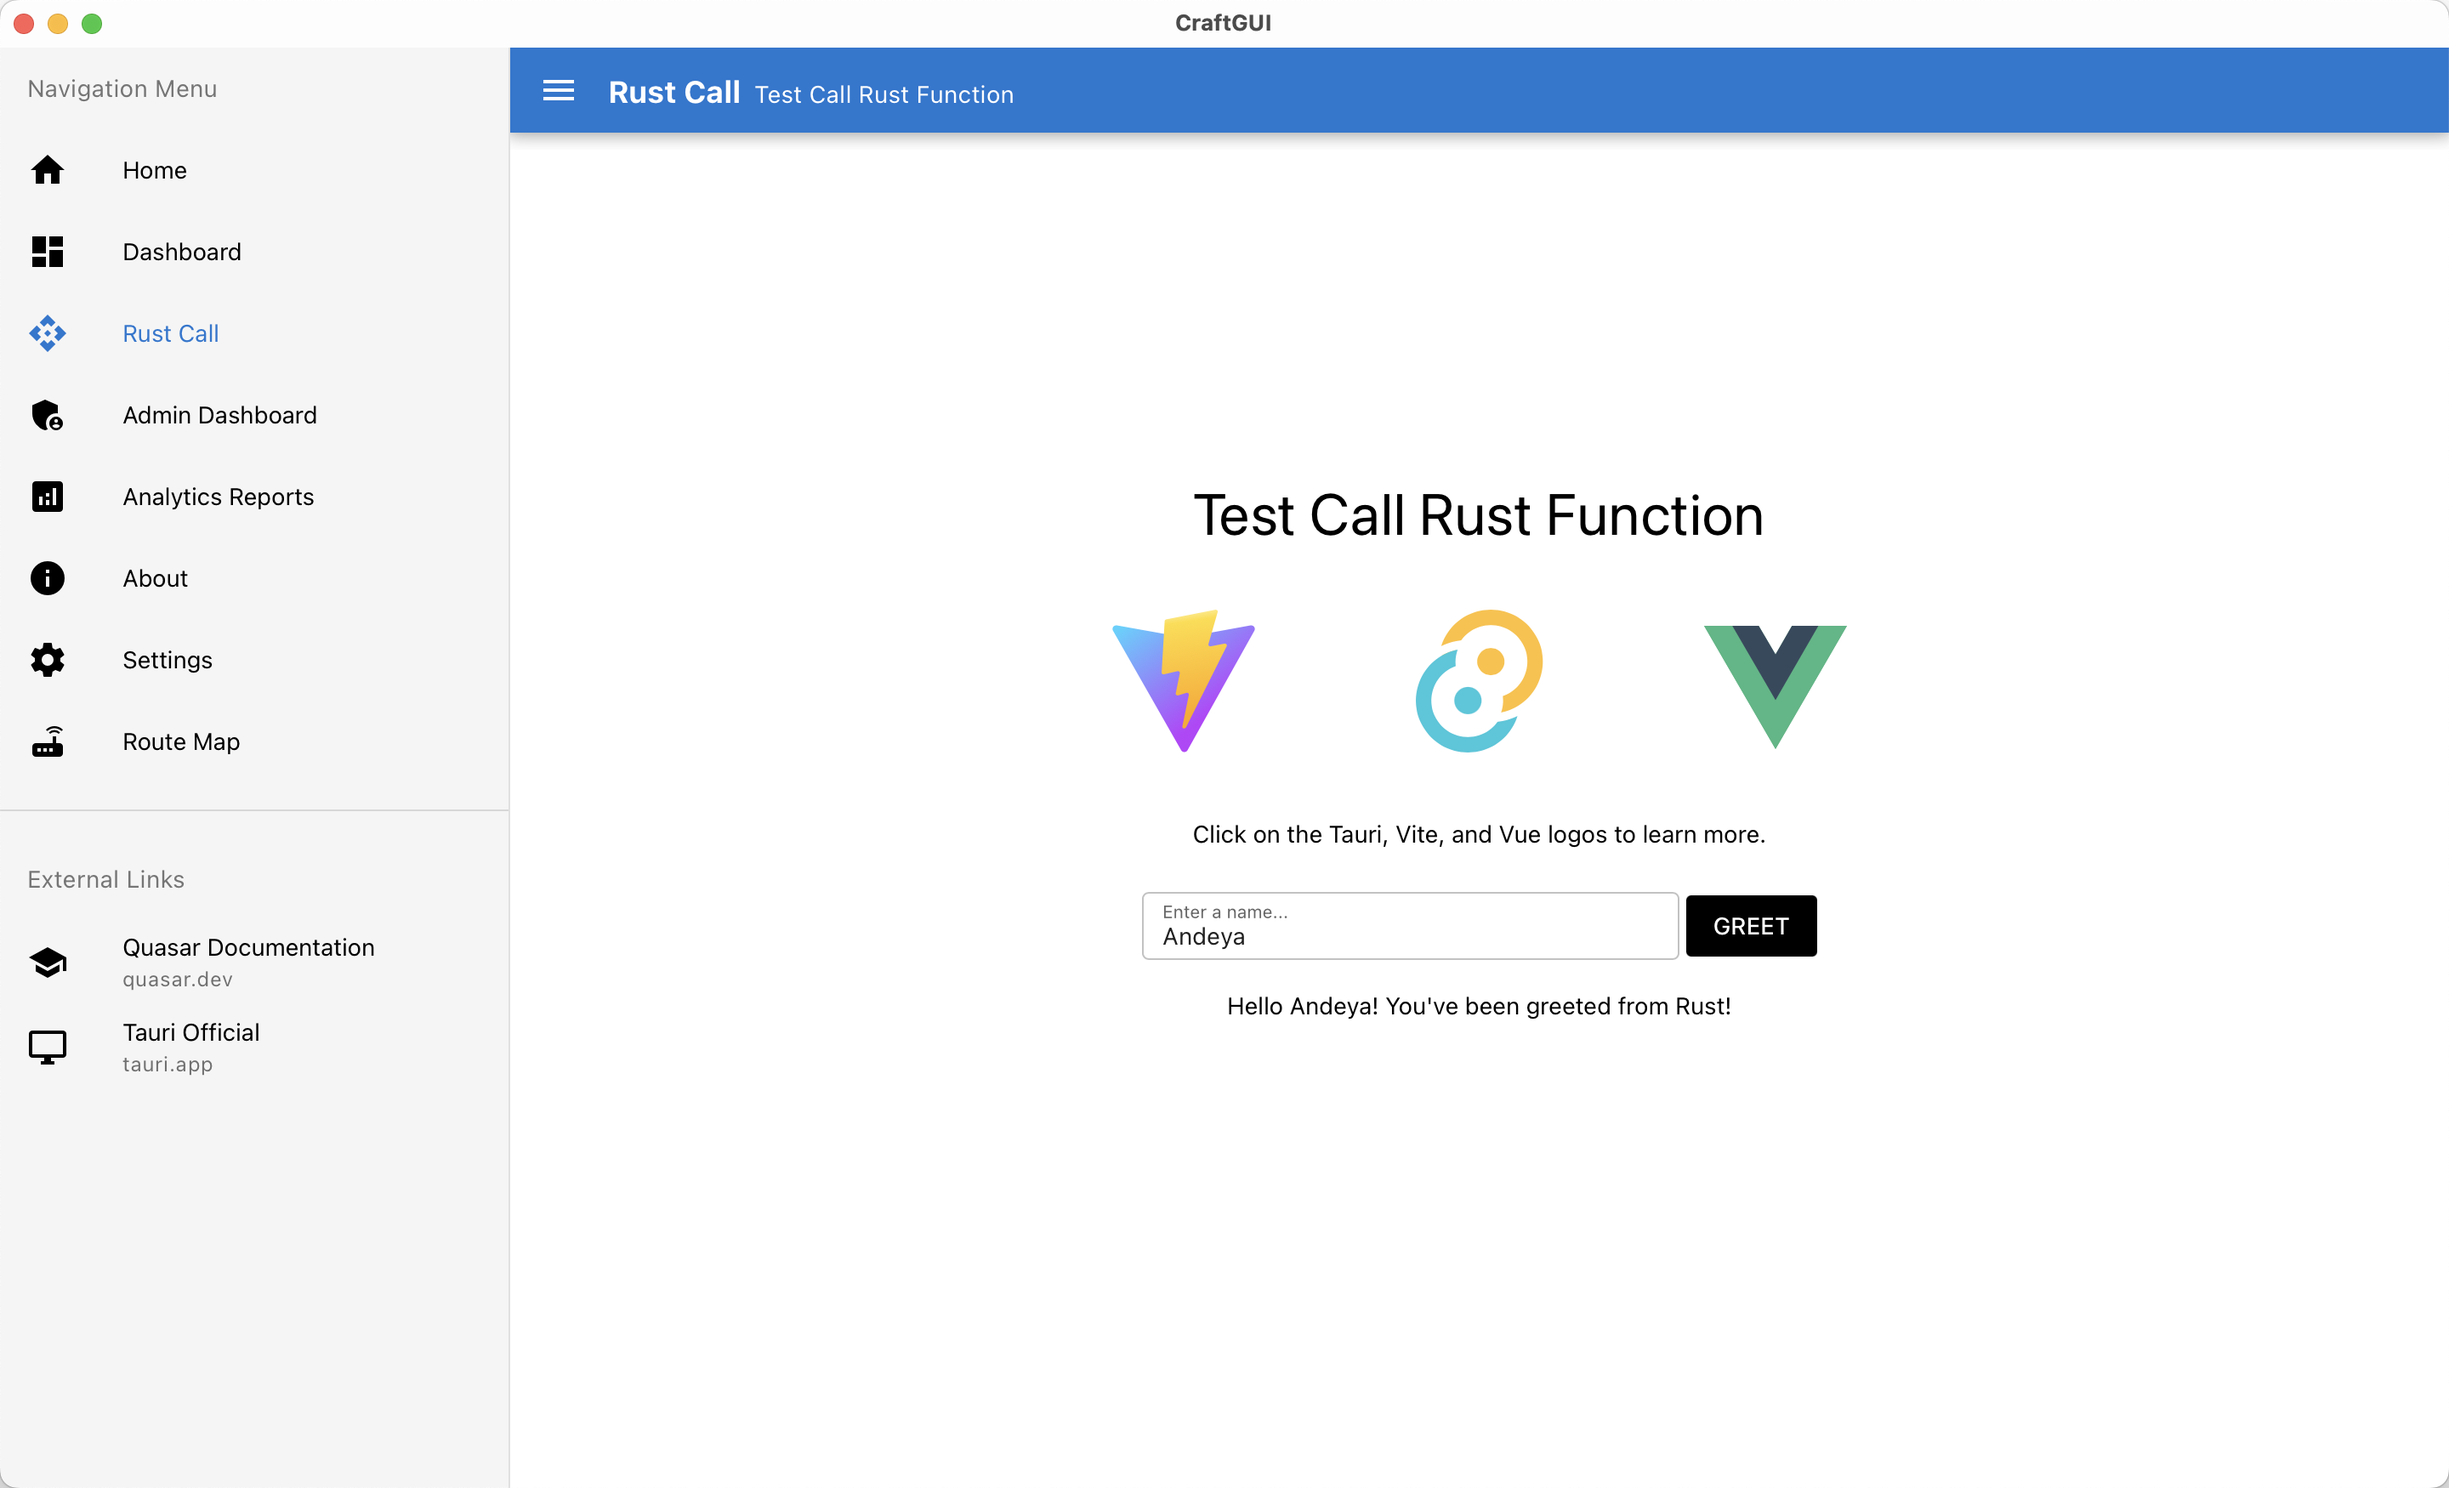
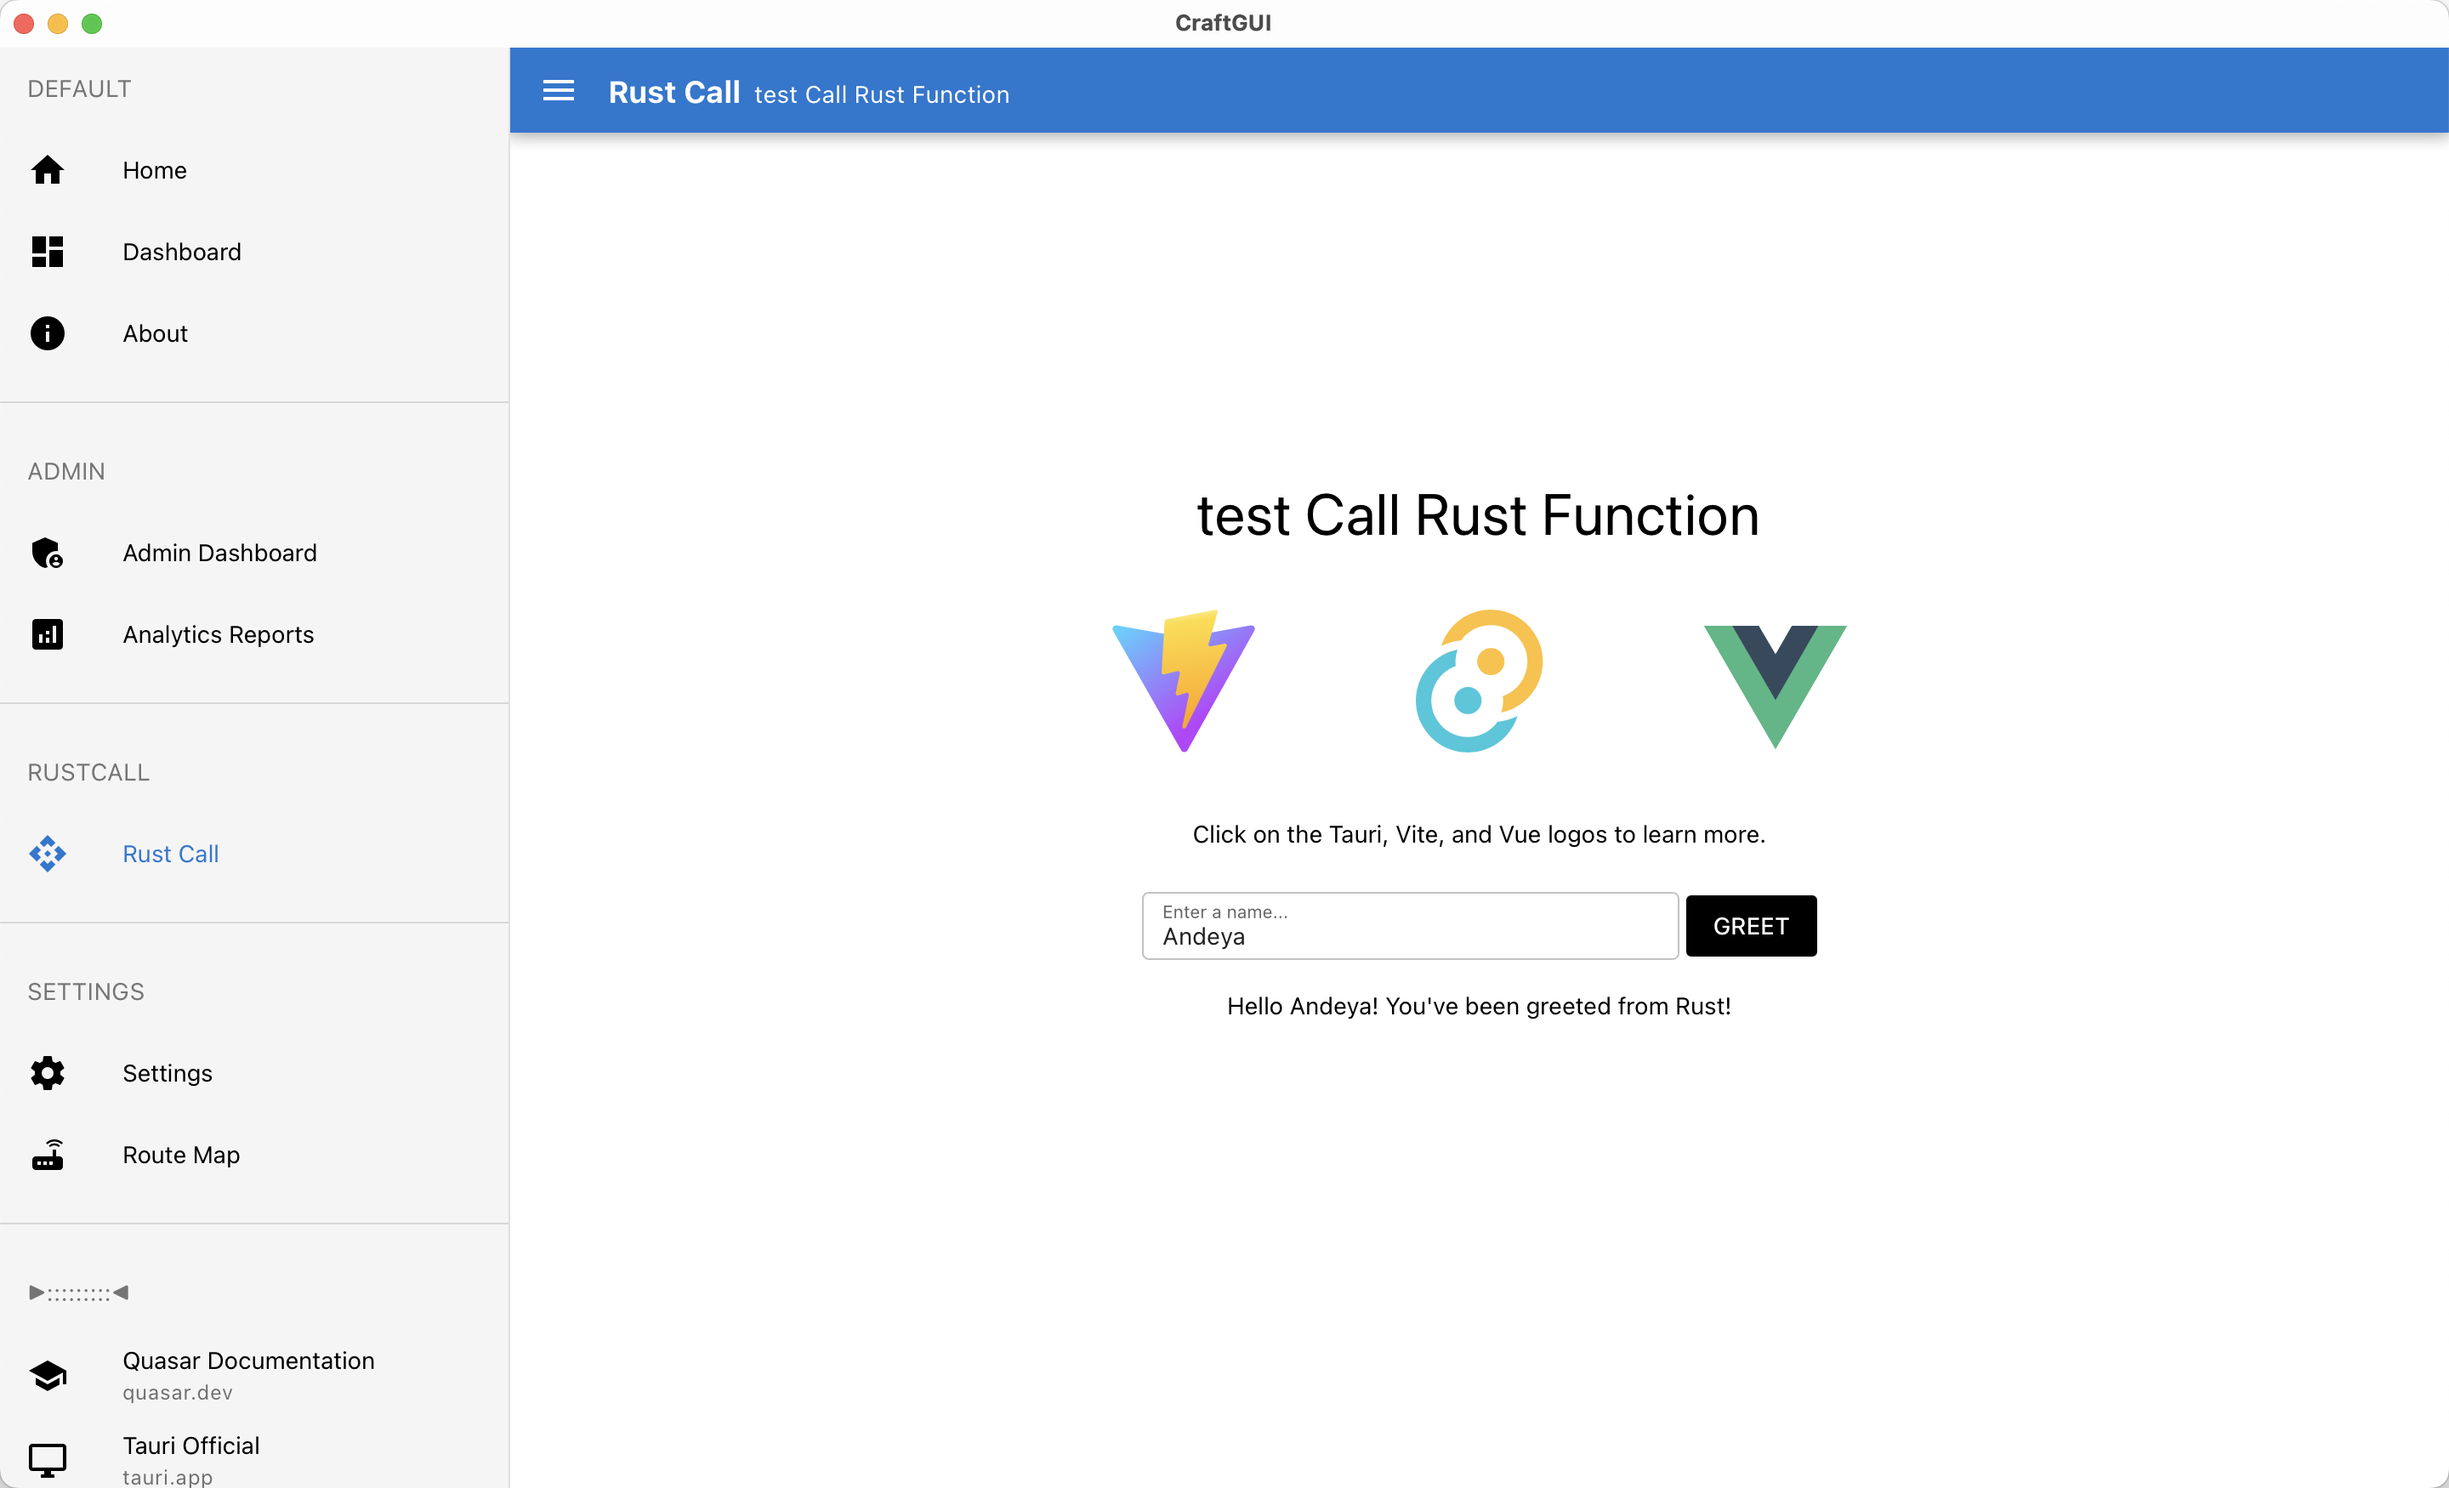
fix: fix route path

diff --git a/src/router/auto-routes.ts b/src/router/auto-routes.ts
@@ -34,9 +34,7 @@ export const routes = ((): RouteRecordRaw[] => {
     const filePathMeta = parseFilePathMeta(path);
 
     // Generate route path from file path, but use cleanName for the final segment
-    let routePath = filePathMeta.innerPath
-      .replace(/\.vue$/, "") // Remove .vue extension
-      .replace(/\/index$/, ""); // Convert /index to root path
+    let routePath = filePathMeta.cleanInnerPath.replace(/\/index$/, ""); // Convert /index to root path
 
     // If the filename had a prefix, replace the filename part with cleanName
     if (filePathMeta.filename !== filePathMeta.cleanName + ".vue") {
@@ -57,8 +55,7 @@ export const routes = ((): RouteRecordRaw[] => {
     }
     // Generate route name
     const routeName =
-      filePathMeta.innerPath
-        .replace(/\.vue$/, "")
+      filePathMeta.cleanInnerPath
         .replace(/\/index$/, "")
         .replace(/\//g, "-")
         .replace(/[A-Z]/g, (match) => `-${match.toLowerCase()}`)
@@ -261,7 +258,7 @@ function getRouteInfo(routes: RouteRecordRaw[]): RouteGroupInfo[] {
 }
 
 interface FilePathMeta {
-  innerPath: string;
+  cleanInnerPath: string;
   filegroup: string;
   filename: string;
   groupOrder: number;
@@ -279,15 +276,18 @@ function parseFilePathMeta(filepath: string): FilePathMeta {
   const parts = innerPath.split("/");
 
   // Extract filepath from path
-  const filegroup = parts.length > 1 ? parts[0] : "";
-  const filegroupPrefixMatch = filegroup.match(/^(\d+)\.(.+)$/);
-
-  let filegroupName = filegroup;
+  let filegroupName = "";
   let filegroupOrder = 0;
-  if (filegroupPrefixMatch) {
-    filegroupOrder = parseInt(filegroupPrefixMatch[1], 10);
-    filegroupName = filegroupPrefixMatch[2];
+  if (parts.length > 1) {
+    filegroupName = parts[0];
+    const filegroupPrefixMatch = filegroupName.match(/^(\d+)\.(.+)$/);
+    if (filegroupPrefixMatch) {
+      filegroupOrder = parseInt(filegroupPrefixMatch[1], 10);
+      filegroupName = filegroupPrefixMatch[2];
+    }
+    parts[0] = filegroupName;
   }
+  let cleanInnerPath = parts.join("/");
 
   // Extract filename from path
   const filename = parts.pop() || "";
@@ -306,9 +306,11 @@ function parseFilePathMeta(filepath: string): FilePathMeta {
     cleanName = namePrefixMatch[2];
     showInMenu = true;
   }
+  parts.push(cleanName);
+  cleanInnerPath = parts.join("/");
 
   return {
-    innerPath: innerPath,
+    cleanInnerPath: cleanInnerPath,
     filegroup: filegroupName,
     groupOrder: filegroupOrder,
     filename: filename,

diff --git a/src/pages/001.index.vue b/src/pages/001.index.vue
@@ -8,7 +8,11 @@
       <p class="text-body1 q-mb-lg">
         A desktop application built with Vue 3 + Quasar + Tauri
       </p>
-      <q-btn color="primary" size="lg" @click="$router.push('/route-map')">
+      <q-btn
+        color="primary"
+        size="lg"
+        @click="$router.push('/settings/route-map')"
+      >
         Route Map
       </q-btn>
     </div>
